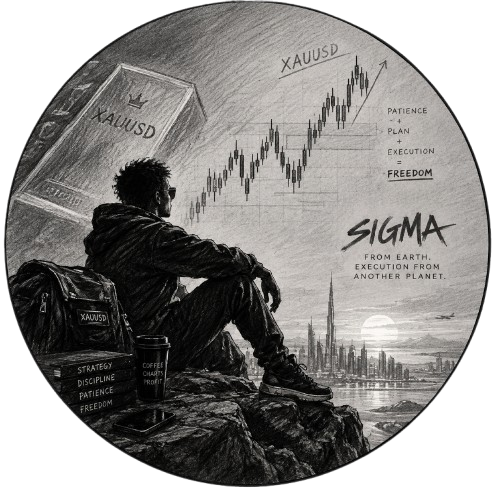
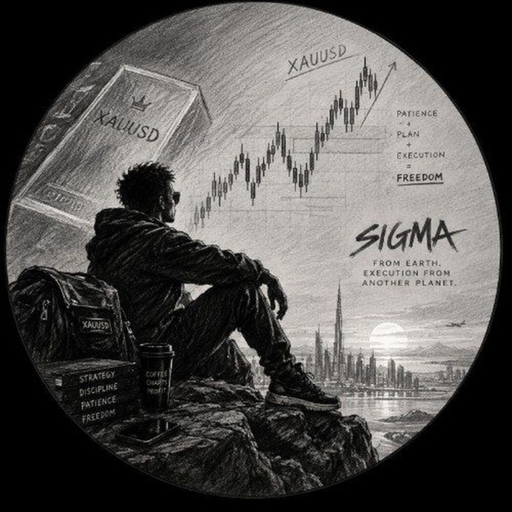
Add files via upload

diff --git a/index.html b/index.html
@@ -72,6 +72,17 @@ header{display:flex;align-items:center;justify-content:space-between;padding:8px
  <div class="foot">SIGMA FROM EARTH.<br><span class="gold">EXECUTION FROM ANOTHER PLANET.</span></div>
 </section>
 
+<section id="killzones" class="view">
+ <section class="panel"><h2 class="sectiontitle">ICT KILLZONE CONTROL</h2><div class="sub">Session windows are evaluated in New York local time, including daylight-saving changes. Adjust the hours below to match your own model.</div><div id="kzList"></div></section>
+ <section class="panel"><h2 class="sectiontitle">CUSTOM KILLZONE TIMES</h2>
+  <div class="field"><label>ASIA START (NEW YORK HOUR)</label><input id="asiaStart" type="number" min="0" max="23" value="20"></div>
+  <div class="grid2"><div class="field"><label>LONDON START</label><input id="londonStart" type="number" min="0" max="23" value="2"></div><div class="field"><label>LONDON END</label><input id="londonEnd" type="number" min="0" max="23" value="5"></div></div>
+  <div class="grid2"><div class="field"><label>NEW YORK START</label><input id="nyStart" type="number" min="0" max="23" value="7"></div><div class="field"><label>NEW YORK END</label><input id="nyEnd" type="number" min="0" max="23" value="10"></div></div>
+  <button class="btn" id="saveKz">SAVE KILLZONE TIMES</button>
+  <div class="sub" style="margin-top:10px">Default windows are carried over from the supplied V1 project. Confirm these against your preferred ICT schedule.</div>
+ </section>
+</section>
+
 <section id="calendar" class="view">
  <section class="panel"><h2 class="sectiontitle">ECONOMIC CALENDAR</h2><span class="tag">CALENDAR FOUNDATION</span>
   <p class="sub">This first build provides the calendar area and event structure. It does not yet fetch live economic data. Add or review events manually until a trusted calendar data source is integrated.</p>
@@ -83,13 +94,13 @@ header{display:flex;align-items:center;justify-content:space-between;padding:8px
 </section>
 
 <section id="tools" class="view">
- <section class="panel"><h2 class="sectiontitle">SIGMA LOT SIZE CALCULATOR</h2><p class="sub"></p>
+ <section class="panel"><h2 class="sectiontitle">SIGMA LOT SIZE CALCULATOR</h2><p class="sub">Integrated from your supplied SIGMA LOTS CALCULATOR V1.4. Estimates risk-based position size using its stated contract assumptions.</p>
   <div class="grid2"><div class="field"><label>ACCOUNT BALANCE (USD)</label><input id="balance" type="number" min="0" step="any" value="670"></div><div class="field"><label>RISK (%)</label><input id="risk" type="number" min="0" max="100" step="any" value="1"></div></div>
   <div class="field"><label>TRADING INSTRUMENT</label><select id="pair"><option value="XAUUSD">XAUUSD — Gold</option><option value="EURUSD">EURUSD</option><option value="GBPUSD">GBPUSD</option><option value="AUDUSD">AUDUSD</option><option value="NZDUSD">NZDUSD</option><option value="USDJPY">USDJPY</option><option value="USDCAD">USDCAD</option><option value="USDCHF">USDCHF</option></select></div>
   <div class="grid2"><div class="field"><label>ENTRY PRICE</label><input id="entry" type="number" step="any" placeholder="e.g. 2650.00"></div><div class="field"><label>STOP-LOSS PRICE</label><input id="stop" type="number" step="any" placeholder="e.g. 2645.00"></div></div>
   <button class="btn" id="calculate">CALCULATE LOT SIZE</button><div class="warning" id="calcError" role="alert"></div>
   <div class="result" id="calcResult" aria-live="polite"><div class="eyebrow">CALCULATED LOT SIZE</div><div class="lotvalue" id="lots">—</div><div class="sub" id="lotNote">Rounded down to 0.01</div><div class="sub" id="riskNote" style="margin-top:8px"></div></div>
-  <p class="sub" style="margin-top:13px"></p>
+  <p class="sub" style="margin-top:13px">Assumptions from your calculator: XAUUSD = 100 troy ounces per standard lot; listed FX pairs = 100,000 base units. Lot size rounds down to 0.01. USD account only. Broker contract size, tick value, minimum volume, commission, spread and slippage can change actual risk. Verify before placing a trade.</p>
  </section>
 </section>
 
@@ -99,7 +110,8 @@ header{display:flex;align-items:center;justify-content:space-between;padding:8px
   <div class="row"><div><b>Session notifications</b><div class="sub" id="alertStatus">Browser notification permission required</div></div><button class="smallbtn" id="alertBtn">Enable</button></div>
   <div class="row"><div><b>Weekend market schedule</b><div class="sub">Sunday 17:00 to Friday 17:00 New York time (default estimate)</div></div><span class="tag">NY TIME</span></div>
   <div class="row"><div><b>App version</b><span class="sub">Independent V2 PWA · V1 archive preserved</span></div><span class="gold">V2.0</span></div>
- </sectio>
+  <p class="sub">Important: weekend opening and closing hours vary by broker and instrument. This build uses a common XAUUSD schedule as an estimate; compare it with your broker's MT5 symbol specifications. PWA notifications are not guaranteed to fire while the browser is fully closed. Native Android alarms are a later Capacitor phase.</p>
+ </section>
 </section>
 </main>
 
